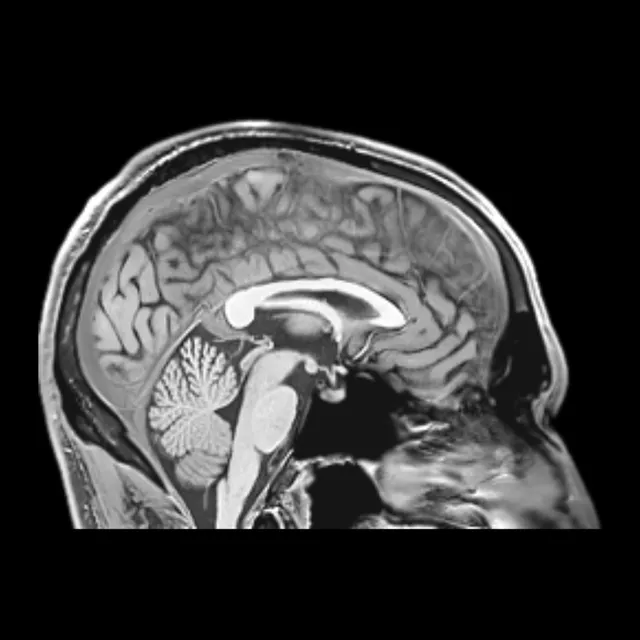
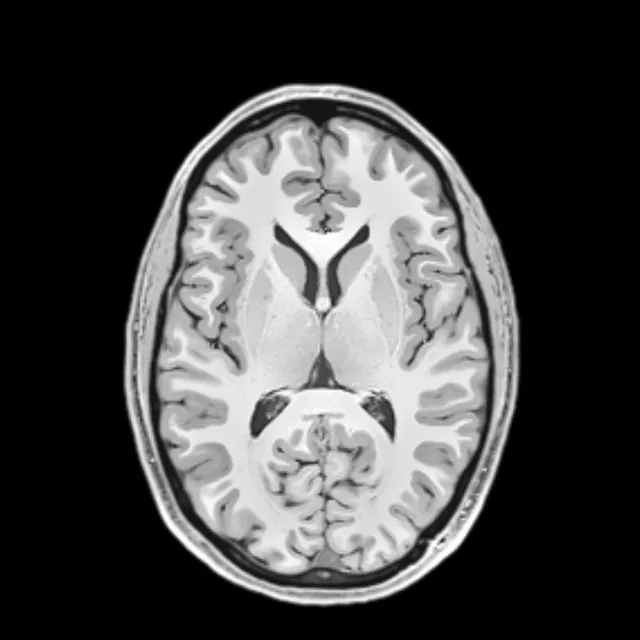
docs(docs-site): set the home page stills on one black band
The stills sit edge to edge on a single black band with no frames or
gaps. The MRI is now an axial slice, which sits whole inside the scan;
the microscopy image fades out in a circle, like a microscope's field of
view; and the CT and tract renders are larger to balance the row.

diff --git a/apps/docs/scripts/home-stills.scenes.js b/apps/docs/scripts/home-stills.scenes.js
@@ -23,10 +23,12 @@ async function viewer(canvas, options) {
 }
 
 export const scenes = {
+  // An axial slice: the whole head sits inside the scan, with black all
+  // around, so it blends into the strip.
   async mri(canvas) {
-    const nv = await viewer(canvas, { sliceType: SLICE_TYPE.SAGITTAL })
+    const nv = await viewer(canvas, { sliceType: SLICE_TYPE.AXIAL })
     await nv.loadVolumes([{ url: '/volumes/chris_t1.nii.gz' }])
-    nv.pan2Dxyzmm = [0, 0, 0, 0.88] // a margin around the head
+    nv.pan2Dxyzmm = [0, 0, 0, 0.9]
   },
 
   async ct(canvas) {
@@ -36,6 +38,7 @@ export const scenes = {
     ])
     nv.azimuth = 120
     nv.elevation = 10
+    nv.scaleMultiplier = 1.1
   },
 
   async microscopy(canvas) {
@@ -87,6 +90,5 @@ export const scenes = {
     await nv.loadMeshes([{ url: '/meshes/yeh2022.trx' }])
     nv.azimuth = 250
     nv.elevation = 15
-    nv.scaleMultiplier = 0.9
   },
 }
